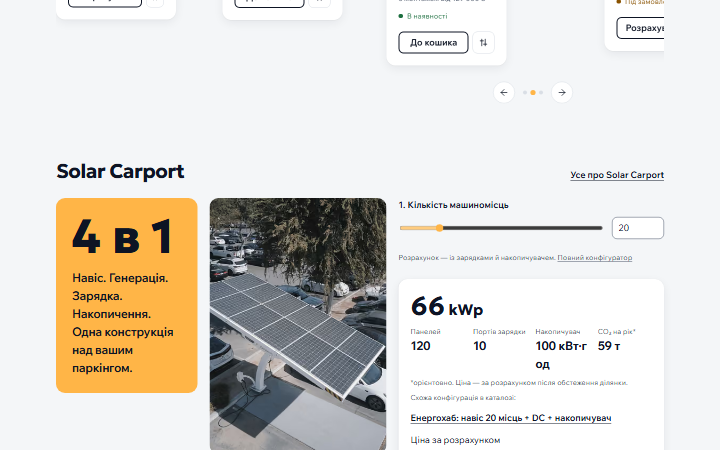
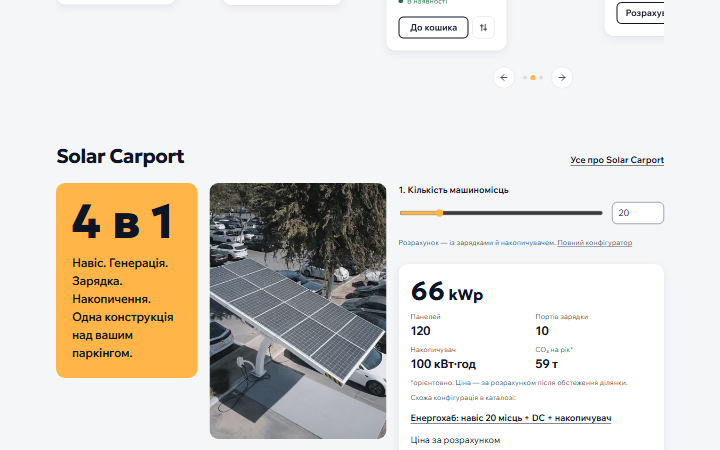
Акт IV: факты Carport в два столбца без разрыва единиц, порог высоты блока 720 px

diff --git a/ets-grid-site/tests/functional/home.spec.ts b/ets-grid-site/tests/functional/home.spec.ts
@@ -332,7 +332,7 @@ test.describe('SPEC-006/AC-37 галереї «Обʼєкти» на Carousel (D
 });
 
 test.describe('SPEC-006/AC-38 акт IV: карусель хітів і стики', () => {
-  test('1440: ≥ 3 картки в рамці, стрілка гортає, точки відмічають; стики — градієнт; Carport ≤ 60 % висоти', async ({ page }, info) => {
+  test('1440: ≥ 3 картки в рамці, стрілка гортає, точки відмічають; стики — градієнт; Carport ≤ 720 px', async ({ page }, info) => {
     await page.goto('/');
     const block = page.locator('[data-home-block="hits"]');
     await block.scrollIntoViewIfNeeded();
@@ -353,6 +353,6 @@ test.describe('SPEC-006/AC-38 акт IV: карусель хітів і стик
     await expect(dots.nth(1)).toHaveAttribute('aria-selected', 'true', { timeout: 3000 });
     await expect.poll(async () => (await block.locator('.hits__item').first().boundingBox())!.x, { timeout: 3000 }).toBeLessThan(track.x);
     const carport = (await page.locator('[data-home-block="carport"]').boundingBox())!;
-    expect(carport.height).toBeLessThanOrEqual(1178 * 0.6);
+    expect(carport.height).toBeLessThanOrEqual(720);
   });
 });

diff --git a/specs/SPEC-006-home.md b/specs/SPEC-006-home.md
@@ -204,7 +204,7 @@
 - [x] **AC-34** · AC-08 (5 узлов-ссылок, линии декоративные, описание), AC-06/AC-14 (вкладки) остаются зелёными после переноса блоков · `build`, `functional`
 - [x] **AC-35** · Доба по кругу (D-059): три слоя неба `[data-hero-sky]` над фото героя с анимацией 48 с `infinite`, только `opacity`; в фазе «день» слой виден (`opacity` > 0,9), а текст героя остаётся на ночной тени (поверх текста ничего не лежит); при `prefers-reduced-motion` слои без анимации и невидимы — статичная ночь · `functional`, `a11y`
 - [x] **AC-36** · Блок 9 «Обʼєкти» (D-058): три карточки с фото прототипа, у каждой метка «Ілюстративне фото» и плейсхолдеры `[Обʼєкт…]`, `[місто]`; плашка «Тут будуть реальні обʼєкти ETS GRID» и ссылка на `/obiekty/` на месте; `/obiekty/` по-прежнему без фото · `build`
-- [x] **AC-38** · Акт IV «Вітрина» (D-060): хиты — остров `HitsCarousel` на `Carousel`; все 8 карточек `ProductCard` в HTML (AC-07); на 1440 в рамке видно ≥ 3 карточки, «Наступні товари» показывает следующую страницу, точки отмечают текущую; фильтр уровня оставляет карточки этого уровня (AC-14); без JS карточки в ряд, лишнее не торчит. Секция хитов с `data-seam="dawn"`, заявка — `data-seam="dusk"`, у обеих `::before` — `linear-gradient` из токенов; Carport — одна строка (плашка · фото · конфигуратор), высота блока ≤ 60 % прежней на 1440 · `build`, `functional`
+- [x] **AC-38** · Акт IV «Вітрина» (D-060): хиты — остров `HitsCarousel` на `Carousel`; все 8 карточек `ProductCard` в HTML (AC-07); на 1440 в рамке видно ≥ 3 карточки, «Наступні товари» показывает следующую страницу, точки отмечают текущую; фильтр уровня оставляет карточки этого уровня (AC-14); без JS карточки в ряд, лишнее не торчит. Секция хитов с `data-seam="dawn"`, заявка — `data-seam="dusk"`, у обеих `::before` — `linear-gradient` из токенов; Carport — одна строка (плашка · фото · конфигуратор), высота блока на 1440 ≤ 720 px (было 1178) · `build`, `functional`
 - [x] **AC-37** · Мини-галереи «Обʼєкти» (D-061): в каждой из трёх карточек 10 кадров `case-{group}-1…10` в HTML (`<picture>` с AVIF, alt, размерами), у каждого кадра метка «Ілюстративне фото»; все 30 ключей есть в `CREDITS.md`; с JS — остров `CaseGallery` на `Carousel` Motion+: стрелки и точки, «Наступний кадр» показывает второй кадр, точки отмечают текущий; без JS и до гидратации виден первый кадр, лишнего не торчит · `build`, `functional`
 
 ## 9. Не входит
